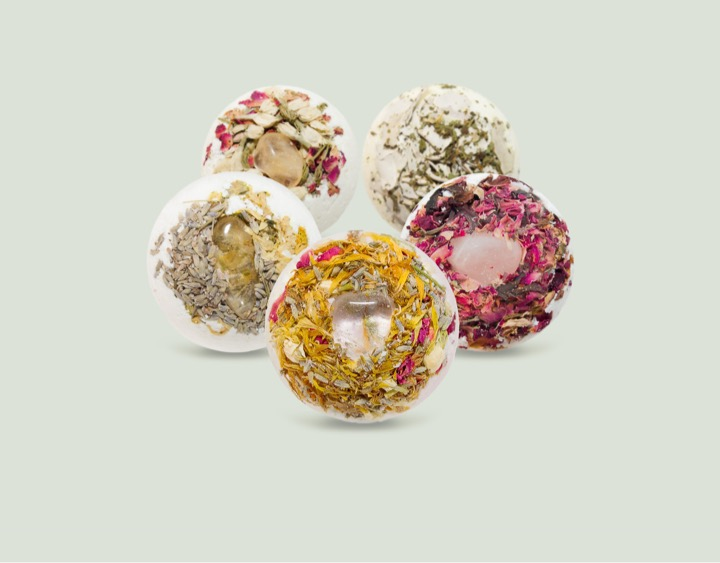
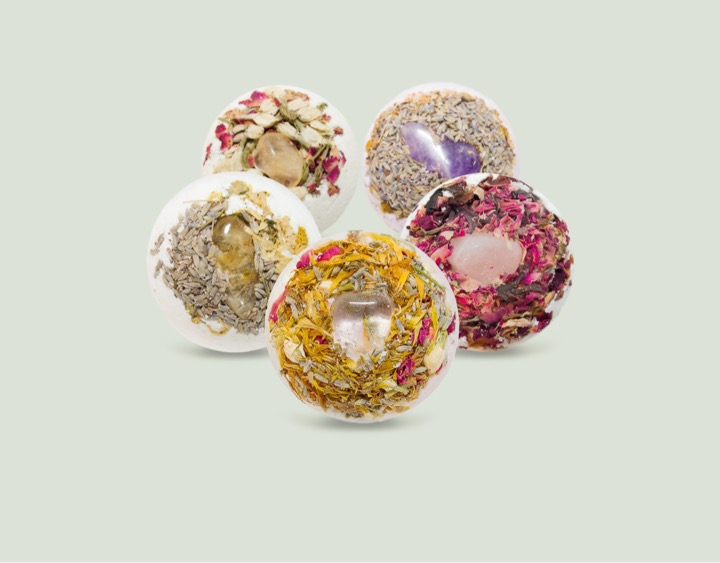
update most wanted set

Changed region(s): [[0.4889, 0.151, 0.7333, 0.4227]]

diff --git a/_bundles/most-wanted.md b/_bundles/most-wanted.md
@@ -19,7 +19,7 @@ new: false
 background-color: "#DDE2D9"
 featured_bundle: true
 
-long_description: This set includes all of our best-selling bath bombs. The Crystal Visions, Aphrodite, Flower Child, Sativa and Limonene. A bomb for every person or mood. The perfect ‘value pack’ for gifting to friends or to keep as a secret self-care stash for yourself.
+long_description: This set includes all of our best-selling bath bombs. The Crystal Visions, Aphrodite, Flower Child, Hypnosis and Limonene. A bomb for every person or mood. The perfect ‘value pack’ for gifting to friends or to keep as a secret self-care stash for yourself.
 
 ingredients: blank
 
